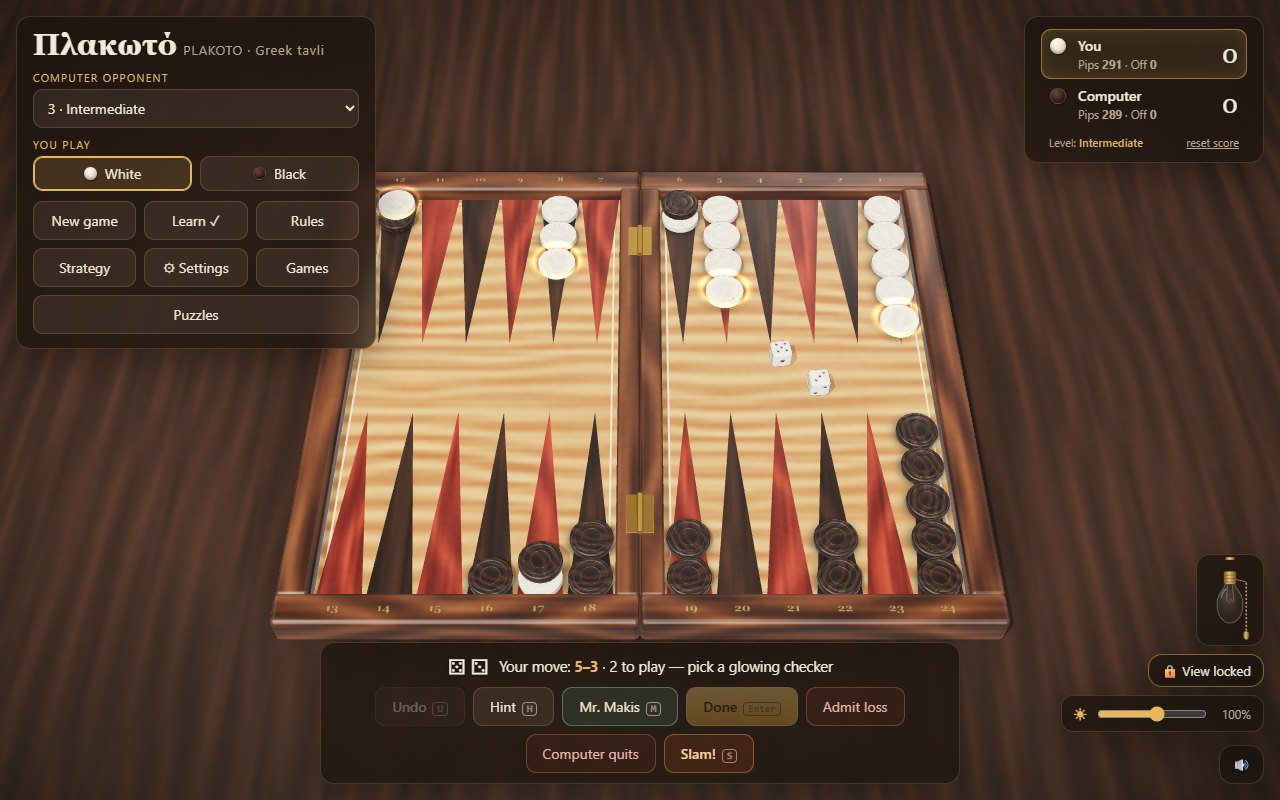
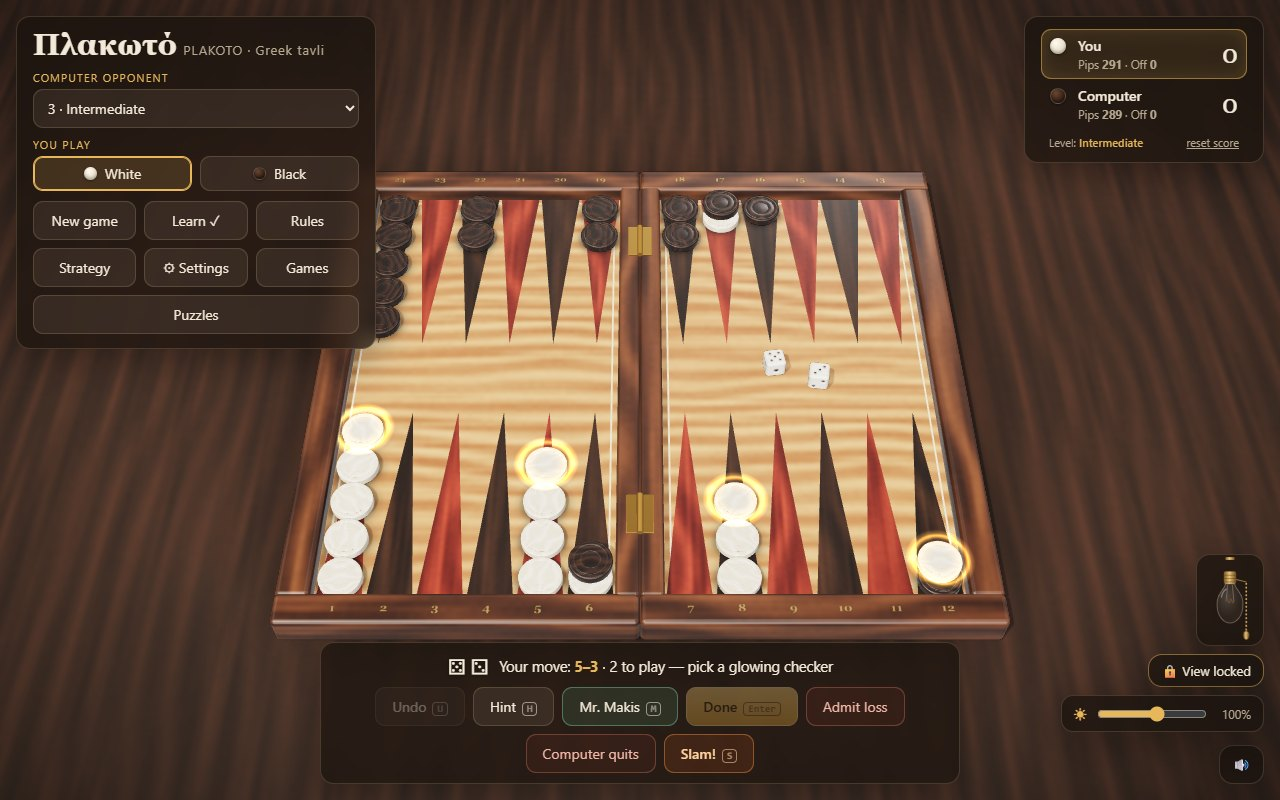
Board seen from the other side: start bottom left (v1.1)
Your checkers now start bottom left and the computer's top left, as at a
real Plakoto table: you travel left to right along the near rail and home
to the top left. Borne-off trays sit on the right (yours at the top), pinned
checkers still show their crescent from your seat, and the lessons, rules,
strategy guide and screenshot describe the new layout.

Changed region(s): [[0.2188, 0.1875, 0.8125, 0.8125]]

diff --git a/src/main.js b/src/main.js
@@ -22,11 +22,17 @@ const $ = (id) => document.getElementById(id);
 const IS_APP = !!(window.Capacitor && window.Capacitor.isNativePlatform && window.Capacitor.isNativePlatform());
 if (IS_APP) document.body.classList.add('app');
 // Engine side 0 = white (ivory), 1 = black. The human picks a colour per game. The board is drawn
-// from the human's seat whatever his colour: his start is always board point 23 (far right) and
-// his home 0-5 (near right); the computer, moving the other way round, starts on 0 (near right,
-// inside the human's home) and bears off from 18-23 (far right). So nothing turns when he plays
-// black - only the checker colours swap. (Fevga turned the stage 180 degrees; with Plakoto's
-// opposite directions a turn would put black's home near LEFT.)
+// from the human's seat whatever his colour: in STAGE coordinates his start is always board point
+// 23 and his home 0-5; the computer, moving the other way round, starts on 0 (inside the human's
+// home) and bears off from 18-23. Only the checker colours swap with the colour choice.
+// The stage itself is ALWAYS turned 180 degrees (STAGE_TURNED, Manos 2026-10-09: "my starting point
+// is bottom left, opponent's top left"), so on screen the human starts BOTTOM LEFT, travels right
+// along the near rail, back left along the far rail, and bears off from the TOP LEFT; the computer
+// starts top left and its home is bottom left. Everything on the stage keeps its stage coordinates
+// (pointX, offPos, pick boxes); anything that depends on where the CAMERA is (the pinned checker's
+// visible crescent, the rail numbers' reading direction) uses facesAway(), and world-space things
+// (dice, table, lights, FOOTPRINT) use world coordinates.
+const STAGE_TURNED = true;
 let HUMAN = 0, CPU = 1;
 // board point (0..23) of side p's own point r (1..24)
 const A = (p, r) => (p === HUMAN ? r - 1 : 24 - r);
@@ -71,15 +77,19 @@ function slotPos(a, k) {
 // Position of the k-th checker (from the bottom) on point a. A pinned point (its bottom checker is
 // the other colour) is drawn as in a real game: the pinner sits ON the pinned checker, slightly off
 // centre so a crescent of the pinned colour stays visible from the player's seat (squarely on top
-// it vanished from view). The crescent must face the camera (+z): on the near side the pinner moves
-// towards the tip; on the far side the pinned checker itself sits towards the tip (moving the
-// pinner there would push it into the rail). Further pinners continue along the point.
+// it vanished from view). The crescent must face the camera: on a point nearer the camera the
+// pinner moves towards the tip; on a point across the board (facesAway) the pinned checker itself
+// sits towards the tip (moving the pinner there would push it into the rail). Further pinners
+// continue along the point.
 const PIN_NUDGE = R * 0.58;
+// is point a on the far side of the board as the player sees it? (the stage is turned 180 degrees)
+const facesAway = (a) => (STAGE_TURNED ? nearSide(a) : !nearSide(a));
+const tipDir = (a) => (nearSide(a) ? -1 : 1); // stage z direction from a point's base towards its tip
 function stackPos(a, k, pinnedBase) {
   if (!pinnedBase) return slotPos(a, k);
   const v = slotPos(a, 0);
-  if (k === 0) { if (!nearSide(a)) v.z += PIN_NUDGE; return v; }
-  if (k === 1) { v.y += CT; if (nearSide(a)) v.z -= PIN_NUDGE; return v; }
+  if (k === 0) { if (facesAway(a)) v.z += tipDir(a) * PIN_NUDGE; return v; }
+  if (k === 1) { v.y += CT; if (!facesAway(a)) v.z += tipDir(a) * PIN_NUDGE; return v; }
   return slotPos(a, k - 1);
 }
 // slides a checker that is not otherwise moving to a new resting spot (a pinned checker making room)
@@ -93,15 +103,18 @@ function shiftTo(mesh, to) {
 const pinnedAt = (a) => stacks[a].length > 1 && stacks[a][0].userData.p !== stacks[a][stacks[a].length - 1].userData.p;
 // where a checker of side p landing on point a goes
 const landPos = (a, p) => stackPos(a, stacks[a].length, stacks[a].length > 0 && stacks[a][0].userData.p !== p);
-// borne-off checkers: neat towers of five on the table beside each home board (the human's near
-// right, the computer's far right; both homes are on the right because the sides travel opposite ways)
+// borne-off checkers: neat towers of five on the table at the RIGHT-hand side of the board as the
+// player sees it - his at the top (level with his top-left home), the computer's at the bottom.
+// Beside the homes would be the left side, where the menu panel covers the human's tray on desktop
+// (it could be neither seen nor clicked). OFF_SIDE = the stage x sign of the screen's right side.
+const OFF_SIDE = STAGE_TURNED ? -1 : 1;
 function offPos(p, k) {
   const tower = Math.floor(k / 5), lv = k % 5;
   const z = p === HUMAN ? 16 - tower * 4.1 : -16 + tower * 4.1;
-  return new THREE.Vector3(OFF_X, TABLE_Y + lv * CT, z);
+  return new THREE.Vector3(OFF_SIDE * OFF_X, TABLE_Y + lv * CT, z);
 }
-// the dice rest beside the far-left corner (the right-hand side holds both sides' borne-off towers)
-const diceRest = (i) => new THREE.Vector3(-(OFF_X + 1) + i * 2.2 * DSP, TABLE_Y + DS / 2, -12);
+// the dice rest beside the board's bottom-left corner (world space; the right holds the towers)
+const diceRest = (i) => new THREE.Vector3(-(OFF_X + 1) + i * 2.2 * DSP, TABLE_Y + DS / 2, STAGE_TURNED ? 12 : -12);
 
 // ================================================================ renderer / scene
 const canvas = $('scene');
@@ -355,6 +368,7 @@ const checkerGeo = (() => {
 // stage = everything fixed to the board (rotates when the human plays black); the dice,
 // table and lights stay in world space so throws always come from the human's side
 const stage = new THREE.Group();
+if (STAGE_TURNED) stage.rotation.y = Math.PI; // the human starts bottom left (see STAGE_TURNED)
 scene.add(stage);
 const world = new THREE.Group();
 stage.add(world);
@@ -447,10 +461,10 @@ function buildBoard() {
     hit.position.set(pointX(a), 0.2, nearSide(a) ? FZ - (PL + 2) / 2 : -FZ + (PL + 2) / 2);
     hit.userData.point = a; world.add(hit); hitMeshes.push(hit);
   }
-  // bear-off area: the near half of the right rail and the table beside it (the far half holds
-  // the computer's borne-off towers)
+  // bear-off area: the half of the right-hand rail (as the player sees it) level with his home, and
+  // the table beside it (the other half holds the computer's borne-off towers)
   offHit = new THREE.Mesh(new THREE.BoxGeometry(RAIL + 9, 3.6, FZ + RAIL + 2), mats.hit);
-  offHit.position.set(FX + (RAIL + 9) / 2, 0, (FZ + RAIL + 2) / 2 - 2);
+  offHit.position.set(OFF_SIDE * (FX + (RAIL + 9) / 2), 0, (FZ + RAIL + 2) / 2 - 2);
   offHit.userData.point = -1; world.add(offHit); hitMeshes.push(offHit);
   offDest = new THREE.Mesh(ringGeo, mats.dest);
   offDest.visible = false; offDest.renderOrder = 4; world.add(offDest);
@@ -466,7 +480,7 @@ function applyNumbers() { const on = showNumbers || !!(puzzle && puzzle.lesson);
 function buildRailNumbers() {
   for (const p of railPlanes) { world.remove(p); p.material.map.dispose(); p.material.dispose(); }
   railPlanes = [];
-  const flip = false; // (Fevga turned the board for black; here it never turns)
+  const flip = STAGE_TURNED; // the planes counter-rotate so the numbers read from the player's seat
   for (const near of [true, false]) {
     const cw = 2048, ch = 64, c = document.createElement('canvas'); c.width = cw; c.height = ch;
     const x2 = c.getContext('2d');
@@ -584,7 +598,7 @@ async function moveChecker(p, from, to) {
   const dst = to === -1 ? offStacks[p] : stacks[to];
   const target = to === -1 ? offPos(p, dst.length) : landPos(to, p); // (onto a lone checker of the other colour: pinned)
   const pins = to !== -1 && dst.length === 1 && dst[0].userData.p !== p;
-  if (pins && !nearSide(to)) shiftTo(dst[0], stackPos(to, 0, true)); // far side: the pinned checker makes room
+  if (pins && facesAway(to)) shiftTo(dst[0], stackPos(to, 0, true)); // across the board: the pinned checker makes room
   dst.push(mesh);
   const start = mesh.position.clone();
   const dist = start.distanceTo(target);
@@ -2742,8 +2756,9 @@ function drawPreview(cv, th) {
     c.strokeStyle = 'rgba(0,0,0,.45)'; c.lineWidth = 1; c.stroke();
   };
   const rx = fx + inset + hw + bar + 5.5 * pw;
-  // the starting position: white on the far right corner, black on the near right corner (Plakoto)
-  for (let i = 0; i < 4; i++) { disc('white', rx, y0 + pw * 0.5 + i * pw * 0.95); disc('black', rx, y0 + fH - pw * 0.5 - i * pw * 0.95); }
+  // the starting position as the player sees it: black (the computer) top left, white (you) bottom left
+  const lx = fx + inset + 0.5 * pw;
+  for (let i = 0; i < 4; i++) { disc('black', lx, y0 + pw * 0.5 + i * pw * 0.95); disc('white', lx, y0 + fH - pw * 0.5 - i * pw * 0.95); }
   const sh = c.createRadialGradient(W * 0.35, H * 0.3, W * 0.1, W * 0.5, H * 0.5, W * 0.75); // studio light
   sh.addColorStop(0, 'rgba(255,240,220,.12)'); sh.addColorStop(1, 'rgba(0,0,0,.35)');
   c.fillStyle = sh; c.fillRect(0, 0, W, H);
@@ -3004,9 +3019,8 @@ let camAnim = null;
 // lock / dimmer row + move bar below), so the home view frames the board in the band between
 // them instead of the whole screen. The bar is reserved at its two-row height so the board does
 // not jump when buttons come and go. Returns null where the panels sit in the corners.
-// What the phone framing must keep in view (world x, z): the board frame, the human's borne-off
-// towers (near right), the computer's (far right - both homes are on the right in Plakoto) and
-// the idle dice (far left).
+// What the phone framing must keep in view (world x, z): the board frame, both sides' borne-off
+// towers (on screen: right, yours at the top) and the idle dice (bottom left).
 // Each entry is [x, z, top]: the box spans y = TABLE_Y (the board's underside / the table) to `top`.
 // The frame is only RAIL_H tall; the tallest thing on the field is a five-high stack near a rail;
 // borne-off towers stand five high on the table.
@@ -3014,8 +3028,9 @@ const STACK_TOP = 5 * CT + 0.2, TOWER_TOP = TABLE_Y + 5 * CT;
 const FOOTPRINT = [
   [-(FX + RAIL), -(FZ + RAIL), RAIL_H], [FX + RAIL, -(FZ + RAIL), RAIL_H], [-(FX + RAIL), FZ + RAIL, RAIL_H], [FX + RAIL, FZ + RAIL, RAIL_H],
   [-(FX - R), -(FZ - R), STACK_TOP], [FX - R, -(FZ - R), STACK_TOP], [-(FX - R), FZ - R, STACK_TOP], [FX - R, FZ - R, STACK_TOP],
-  [OFF_X + R, 16 + R, TOWER_TOP], [OFF_X + R, 7.8 - R, TOWER_TOP], [OFF_X + R, -16 - R, TOWER_TOP], [OFF_X + R, -7.8 + R, TOWER_TOP],
-  [-(OFF_X + 1) - DS / 2, -12 - DS / 2, TABLE_Y + DS], [-(OFF_X + 1) - DS / 2, -12 + DS / 2, TABLE_Y + DS],
+  // borne-off towers (always on the screen's right: world +x) and the idle dice (world, left)
+  ...[16 + R, 7.8 - R, -16 - R, -7.8 + R].map((z) => [OFF_X + R, z, TOWER_TOP]),
+  ...[diceRest(0).z - DS / 2, diceRest(0).z + DS / 2].map((z) => [diceRest(0).x - DS / 2, z, TABLE_Y + DS]),
 ];
 // Which HUD layout the CSS is using: 'land' = phone on its side (max-height 500: left and right
 // rails), 'portrait' = narrow screen (panels above and below), 'desk' = panels in the corners.

diff --git a/strategy.html b/strategy.html
@@ -119,8 +119,8 @@ and every figure is quoted with the sample it came from (see <a href="#method">h
 <section class="card" id="map">
   <p class="kicker">Orientation</p>
   <h2>The board from your seat</h2>
-  <p>The numbers are <b>your</b> points, as printed on the rails (Settings → Point numbers): your start is 1, far right, and your home is 19–24, near right.
-  The computer comes the <b>other way round</b>: it starts on your 24 — inside your home — and its home is your 1–6, right where you start.
+  <p>The numbers are <b>your</b> points, as printed on the rails (Settings → Point numbers): your start is 1, bottom left, and your home is 19–24, top left.
+  The computer comes the <b>other way round</b>: it starts on your 24, top left — inside your home — and its home is your 1–6, right where you start.
   So every one of your checkers meets every one of its checkers head-on, and each side's starting point sits in the other side's home.</p>
   <div class="fig" data-fig="boardMap"></div>
   <div class="legend"><span><i style="background:var(--gold)"></i>your way round, 1 → 24, then off</span><span><i style="background:var(--silver)"></i>the computer's way round</span></div>
@@ -226,8 +226,8 @@ and every figure is quoted with the sample it came from (see <a href="#method">h
 <section class="card" id="map-el">
   <p class="kicker">Προσανατολισμός</p>
   <h2>Το ταμπλό από τη θέση σου</h2>
-  <p>Τα νούμερα είναι <b>τα δικά σου</b> σημεία, όπως είναι τυπωμένα στο πλαίσιο (Settings → Point numbers): η αφετηρία σου είναι το 1, πάνω δεξιά, και το σπίτι σου το 19–24, κάτω δεξιά.
-  Ο υπολογιστής έρχεται από την <b>αντίθετη μεριά</b>: ξεκινά από το δικό σου 24 — μέσα στο σπίτι σου — και το σπίτι του είναι το δικό σου 1–6, ακριβώς εκεί που ξεκινάς εσύ.
+  <p>Τα νούμερα είναι <b>τα δικά σου</b> σημεία, όπως είναι τυπωμένα στο πλαίσιο (Settings → Point numbers): η αφετηρία σου είναι το 1, κάτω αριστερά, και το σπίτι σου το 19–24, πάνω αριστερά.
+  Ο υπολογιστής έρχεται από την <b>αντίθετη μεριά</b>: ξεκινά από το δικό σου 24, πάνω αριστερά — μέσα στο σπίτι σου — και το σπίτι του είναι το δικό σου 1–6, ακριβώς εκεί που ξεκινάς εσύ.
   Έτσι κάθε πούλι σου συναντά κατά μέτωπο κάθε πούλι του, και η αφετηρία του καθενός βρίσκεται μέσα στο σπίτι του άλλου.</p>
   <div class="fig" data-fig="boardMap"></div>
   <div class="legend"><span><i style="background:var(--gold)"></i>η δική σου διαδρομή, 1 → 24 και έξω</span><span><i style="background:var(--silver)"></i>η διαδρομή του υπολογιστή</span></div>
@@ -340,7 +340,8 @@ const T = {
     nOf: (n) => `${n} πλακώματα` },
 };
 
-// the board from the player's seat: points 1-12 along the far rail (right to left), 13-24 along the near rail
+// the board from the player's seat (as the game draws it): points 1-12 along the near rail (left to
+// right, start bottom left), 13-24 along the far rail (right to left, home top left)
 function boardMap(host, lang) {
   const t = T[lang], W = 640, H = 390;
   const svg = el('svg', { viewBox: `0 0 ${W} ${H}`, role: 'img', 'aria-label': `${t.youStart}, ${t.youHome}, ${t.cpuStart}, ${t.cpuHome}` });
@@ -352,9 +353,9 @@ function boardMap(host, lang) {
     const cx = px(k);
     svg.append(el('path', { d: `M${cx - pw / 2 + 2} ${top}L${cx + pw / 2 - 2} ${top}L${cx} ${top + len}Z`, fill: k % 2 ? 'var(--pa)' : 'var(--pb)', opacity: 0.85 }));
     svg.append(el('path', { d: `M${cx - pw / 2 + 2} ${bottom}L${cx + pw / 2 - 2} ${bottom}L${cx} ${bottom - len}Z`, fill: k % 2 ? 'var(--pb)' : 'var(--pa)', opacity: 0.85 }));
-    // far rail: point 12 on the left ... 1 on the right; near rail: 13 on the left ... 24 on the right
-    svg.append(el('text', { x: cx, y: top - 7, 'text-anchor': 'middle', 'font-size': 11, fill: 'var(--dim)' }, String(12 - k)));
-    svg.append(el('text', { x: cx, y: bottom + 16, 'text-anchor': 'middle', 'font-size': 11, fill: 'var(--dim)' }, String(13 + k)));
+    // far rail: point 24 on the left ... 13 on the right; near rail: 1 on the left ... 12 on the right
+    svg.append(el('text', { x: cx, y: top - 7, 'text-anchor': 'middle', 'font-size': 11, fill: 'var(--dim)' }, String(24 - k)));
+    svg.append(el('text', { x: cx, y: bottom + 16, 'text-anchor': 'middle', 'font-size': 11, fill: 'var(--dim)' }, String(1 + k)));
   }
   const defs = el('defs');
   for (const [id, c] of [['mg', '#e8b75a'], ['ms', '#b9c3cc']]) {
@@ -366,23 +367,23 @@ function boardMap(host, lang) {
   const arrow = (d, color, id) => svg.append(el('path', { d, fill: 'none', stroke: color, 'stroke-width': 4, 'stroke-linecap': 'round', 'stroke-linejoin': 'round', 'marker-end': `url(#${id})` }));
   // four lanes between the point tips: yours on the outside, the computer's inside
   const yA = top + len + 14, yB = top + len + 32, yC = bottom - len - 32, yD = bottom - len - 14;
-  const L = px(0) - 4, Rt = px(11) + 8;
-  // yours: from 1 (far right) leftwards, round the left end, then rightwards to 24 and off
-  arrow(`M${Rt} ${yA}L${L + 26} ${yA}Q${L - 6} ${yA} ${L - 6} ${(yA + yD) / 2}Q${L - 6} ${yD} ${L + 26} ${yD}L${Rt} ${yD}`, '#e8b75a', 'mg');
-  // the computer's: from your 24 (near right) leftwards, round the left end, then rightwards to your 1-6 and off
-  arrow(`M${Rt - 4} ${yC}L${L + 40} ${yC}Q${L + 16} ${yC} ${L + 16} ${(yB + yC) / 2}Q${L + 16} ${yB} ${L + 40} ${yB}L${Rt - 4} ${yB}`, '#b9c3cc', 'ms');
+  const L = px(0) - 8, Rr = px(11) + 4;
+  // yours: from 1 (bottom left) rightwards, round the right end, then leftwards to 24 and off
+  arrow(`M${L} ${yD}L${Rr - 26} ${yD}Q${Rr + 6} ${yD} ${Rr + 6} ${(yA + yD) / 2}Q${Rr + 6} ${yA} ${Rr - 26} ${yA}L${L} ${yA}`, '#e8b75a', 'mg');
+  // the computer's: from your 24 (top left) rightwards, round the right end, then leftwards to your 1-6 and off
+  arrow(`M${L + 4} ${yB}L${Rr - 40} ${yB}Q${Rr - 16} ${yB} ${Rr - 16} ${(yB + yC) / 2}Q${Rr - 16} ${yC} ${Rr - 40} ${yC}L${L + 4} ${yC}`, '#b9c3cc', 'ms');
   // start markers on the two start points
-  svg.append(el('circle', { cx: px(11), cy: top + 12, r: 9, fill: '#f4ead8', stroke: '#e8b75a', 'stroke-width': 2.5 }));
-  svg.append(el('circle', { cx: px(11), cy: bottom - 12, r: 9, fill: '#3b2618', stroke: '#b9c3cc', 'stroke-width': 2.5 }));
-  // region labels in the margins, over / under the right half
-  const half = (px(6) + px(11)) / 2;
+  svg.append(el('circle', { cx: px(0), cy: bottom - 12, r: 9, fill: '#f4ead8', stroke: '#e8b75a', 'stroke-width': 2.5 }));
+  svg.append(el('circle', { cx: px(0), cy: top + 12, r: 9, fill: '#3b2618', stroke: '#b9c3cc', 'stroke-width': 2.5 }));
+  // region labels in the margins, over / under the left half
+  const half = (px(0) + px(5)) / 2;
   const two = (y, a, ca, b, cb) => {
     const tx = el('text', { x: half, y, 'text-anchor': 'middle', 'font-size': 12.5, 'font-weight': 600 });
     tx.append(el('tspan', { fill: ca }, a), el('tspan', { fill: 'var(--dim)' }, '  ·  '), el('tspan', { fill: cb }, b));
     svg.append(tx);
   };
-  two(22, t.youStart, '#e8b75a', t.cpuHome, '#b9c3cc');
-  two(H - 12, t.youHome, '#e8b75a', t.cpuStart, '#b9c3cc');
+  two(22, t.youHome, '#e8b75a', t.cpuStart, '#b9c3cc');
+  two(H - 12, t.youStart, '#e8b75a', t.cpuHome, '#b9c3cc');
   host.append(svg);
 }
 

diff --git a/src/lessons.js b/src/lessons.js
@@ -4,8 +4,8 @@
 // check against the engine.
 //
 // Everything here is written in the numbering a player SEES (records.shown): point 1 is the
-// player's start (far right), 12 the far-left corner, 13-24 the near rail, home is 19-24 and
-// bearing off is "after 24". The computer travels the other way round: it starts on the player's
+// player's start (bottom left), 1-12 run left to right along the near rail, 13-24 right to left
+// along the far rail, home is 19-24 (top left) and bearing off is "after 24". The computer travels the other way round: it starts on the player's
 // 24 and its home is the player's 1-6, so a computer checker on shown point s stands on its OWN
 // point s. The engine counts the player's side the other way (r = 25 - shown); boardFrom /
 // lessonSteps convert.
@@ -31,7 +31,7 @@ export const LESSONS = [
   {
     id: 'direction', title: 'The board and the two ways round',
     mine: { 1: 15 }, opp: { 24: 15 }, dice: [2, 1], goal: [4],
-    teach: `<p>You are the ivory checkers and all fifteen start on <b>point 1</b>, far right. You travel <b>1 to 12 along the far rail, then 13 to 24 along the near rail</b>; your home is <b>19–24</b>. The computer goes the <b>other way round</b>: it starts on your <b>24</b> — inside your home — and its home is your <b>1–6</b>. Every checker of yours meets every checker of its head-on. The gold numbers on the rails stay on during the lessons.</p>`,
+    teach: `<p>You are the ivory checkers and all fifteen start on <b>point 1</b>, bottom left. You travel <b>1 to 12 along the near rail (left to right), then 13 to 24 along the far rail (right to left)</b>; your home is <b>19–24</b>, top left. The computer goes the <b>other way round</b>: it starts on your <b>24</b>, top left — inside your home — and its home is your <b>1–6</b>, bottom left. Every checker of yours meets every checker of its head-on. The gold numbers on the rails stay on during the lessons.</p>`,
     task: `You rolled <b>2–1</b>. Move one checker 3 points forward, to the glowing point <b>4</b>. Click a glowing checker, then a point — or drag the checker there.`,
     check: (v) => v.mine[rOf(4)] === 1 && v.mine[rOf(1)] === 14,
     answer: [{ from: 1, to: 3, d: 2 }, { from: 3, to: 4, d: 1 }],

diff --git a/index.html b/index.html
@@ -611,8 +611,8 @@
     <h2 class="serif">How to play Plakoto</h2>
     <h3>The board</h3>
     <ul>
-      <li>Each side has 15 checkers, all starting on one point. Yours start in the <b>far right corner</b> (your point 1); the computer's start in the <b>near right corner</b> (your point 24) — inside your home board. Choose white (ivory, the default) or black under <i>You play</i>; you always sit on the same side.</li>
-      <li>The two sides travel in <b>opposite directions</b>. You move right&nbsp;→&nbsp;left along the far side, then left&nbsp;→&nbsp;right along the near side into your home board (near right, 19–24), and bear off. The computer comes the other way and its home is your 1–6.</li>
+      <li>Each side has 15 checkers, all starting on one point. Yours start in the <b>bottom left corner</b> (your point 1); the computer's start in the <b>top left corner</b> (your point 24) — inside your home board. Choose white (ivory, the default) or black under <i>You play</i>; you always sit on the same side.</li>
+      <li>The two sides travel in <b>opposite directions</b>. You move left&nbsp;→&nbsp;right along the near side, then right&nbsp;→&nbsp;left along the far side into your home board (top left, 19–24), and bear off. The computer comes the other way and its home is your 1–6, bottom left.</li>
       <li>Roll two dice and move by each number. Doubles are played four times.</li>
       <li><b>Who starts:</b> each side throws one die and the higher starts — by rolling again, or (Settings → Play) by playing those two opening dice as the first move.</li>
     </ul>
